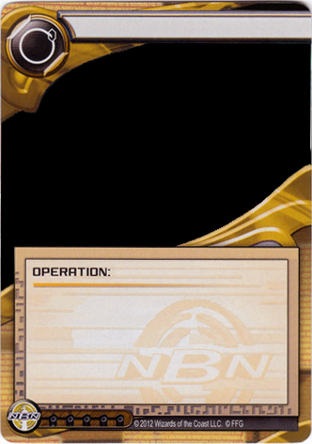
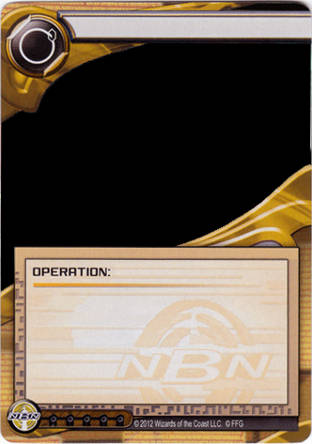
Further reduced proxies size
Added Anthony's supercharge
Added my my own Jinteki:RP custom card

diff --git a/o8g/Scripts/constants.py b/o8g/Scripts/constants.py
@@ -173,17 +173,19 @@ SuperchargedSubs = ['stevehouston',       # Brendan            - http://www.patr
                     'emlun',              # Emil Lundberg      - http://www.patreon.com/user?u=52834
                     '0sum',               # Yongqian Li        - http://www.patreon.com/user?u=66506 
                     'drtall2',            # Sean Fellows       - http://www.patreon.com/user?u=50373
-                    'hoopjones'           # Brian Kupcheck     - http://www.patreon.com/user?u=66678
-                    'x3r0h0ur'            # Brian Cassidy      - http://www.patreon.com/user?u=66217
-                    'davidcarlton'        # David Carlton      - http://www.patreon.com/davidcarlton
-                    'conduit23'           # Matt               - http://www.patreon.com/user?u=66664
+                    'hoopjones',          # Brian Kupcheck     - http://www.patreon.com/user?u=66678
+                    'x3r0h0ur',           # Brian Cassidy      - http://www.patreon.com/user?u=66217
+                    'davidcarlton',       # David Carlton      - http://www.patreon.com/davidcarlton
+                    'conduit23',          # Matt               - http://www.patreon.com/user?u=66664
                     'failtech'            # Hesy               - http://www.patreon.com/user?u=66835
                    ] # 3$ Tier
 
-CustomSubs = ['dovian'                    # Daniel DeBoer      - http://www.patreon.com/user?u=66260
+CustomSubs = ['dovian',                   # Daniel DeBoer      - http://www.patreon.com/user?u=66260
+              'demarko'                   # Dannel Jurado      - http://www.patreon.com/demarko
              ] # $5 Tier
 
 CardSubs = ['susuexp',                    # Simon Gunkel       - http://www.patreon.com/user?u=66210
+            'reverendanthony',            # Anthony Burch      - http://www.patreon.com/user?u=66843 # Not verified username
             'db0',
             'dbzer0'
            ] # $10 Tier
@@ -194,5 +196,6 @@ SuperchargedMsg = "{} is Supercharging their systems.\
            
 CustomMsgs = dict( # Dictionary holding the messages requested by people on the 5$ tier and above
                  Dovian          = "Dovian wants YOU to support A:NR on OCTGN! - http://www.patreon.com/db0",
+                 reverendanthony = "When Anthony makes a run on your HQ he stops to kiss you on the cheek real quick",
                  db0             = "Please consider supporting A:NR development via Patreon - http://www.patreon.com/db0"
                   )

diff --git a/o8g/Scripts/generic.py b/o8g/Scripts/generic.py
@@ -764,6 +764,7 @@ def prepPatronLists():
    
 def superCharge(card):
    if me.name.lower() in supercharged: card.switchTo('Supercharged')
+   if me.name.lower() in CardSubs: card.switchTo(me.name.lower())
       
 def announceSupercharge():
    if me.name.lower() in supercharged:
